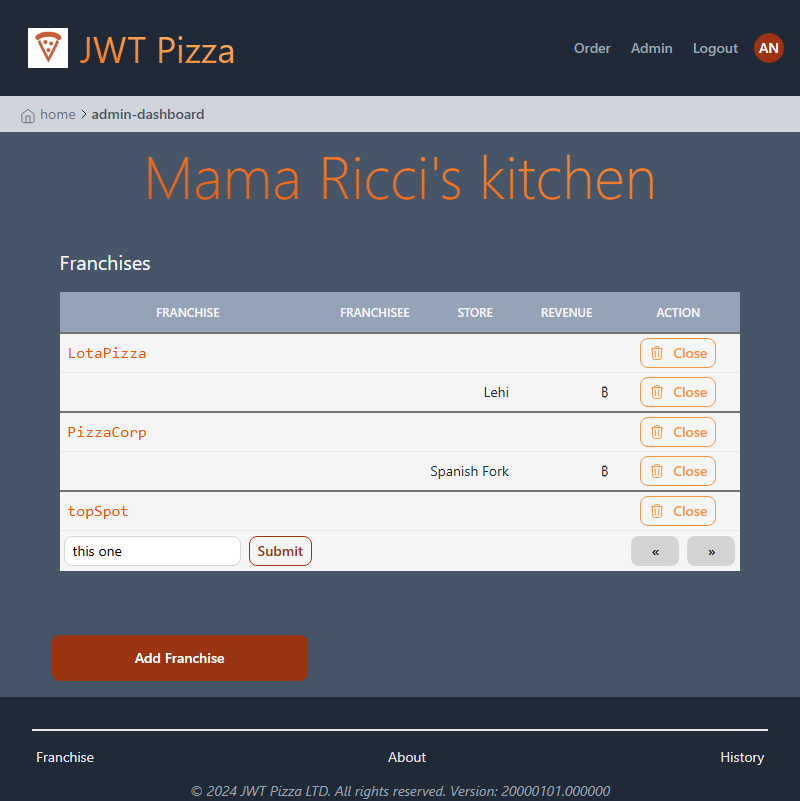
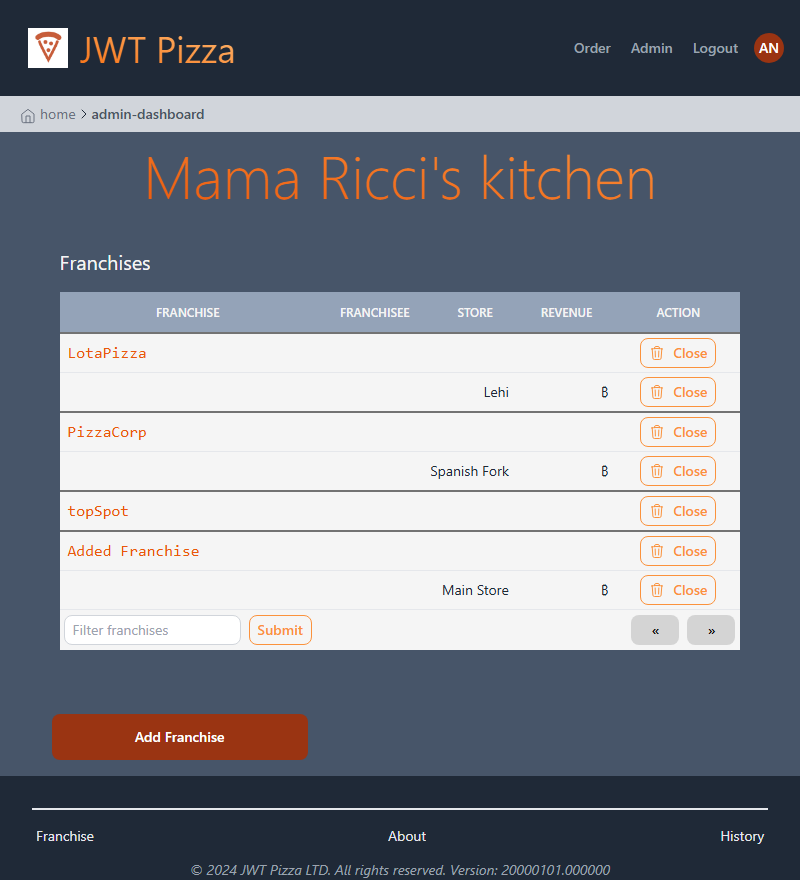
Finally got that admin test passing. Taking a break for a bit

diff --git a/tests/pizza.spec.ts b/tests/pizza.spec.ts
@@ -138,38 +138,60 @@ async function basicInit(page: Page) {
     await route.fulfill({ json: menuRes });
   });
 
-  // Standard franchises and stores
+  const mockFranchises = [
+  { id: 2, name: 'LotaPizza', stores: [{ id: 4, name: 'Lehi' }] },
+  { id: 3, name: 'PizzaCorp', stores: [{ id: 7, name: 'Spanish Fork' }] },
+  { id: 4, name: 'topSpot', stores: [] },
+];
+
   await page.route(/\/api\/franchise(\?.*)?$/, async (route) => {
-    const franchiseRes = {
-      franchises: [
-        {
-          id: 2,
-          name: 'LotaPizza',
-          stores: [
-            { id: 4, name: 'Lehi' },
-            // { id: 5, name: 'Springville' },
-            // { id: 6, name: 'American Fork' },
-          ],
-        },
-        { id: 3, name: 'PizzaCorp', stores: [{ id: 7, name: 'Spanish Fork' }] },
-        { id: 4, name: 'topSpot', stores: [] },
-      ],
-    };
     expect(route.request().method()).toBe('GET');
-    await route.fulfill({ json: franchiseRes });
+    await route.fulfill({ json: { franchises: mockFranchises } });
   });
 
-  // let createdFranchise: any;
   await page.route('*/**/api/franchise', async (route) => {
-    const createdFranchise = route.request().postDataJSON();
     const newFranchise = {
-      id: 5,
-      name: createdFranchise.name,
-      stores: [{ id: 8, name: createdFranchise.storeName }],
+      id: mockFranchises.length + 2, // simple incremental ID
+      name: 'Added Franchise',
+      stores: [{ id: 8, name: 'Main Store' }],
     };
+    mockFranchises.push(newFranchise); // add to the in-memory list
     expect(route.request().method()).toBe('POST');
     await route.fulfill({ json: newFranchise });
   });
+
+  // Standard franchises and stores
+  // await page.route(/\/api\/franchise(\?.*)?$/, async (route) => {
+  //   const franchiseRes = {
+  //     franchises: [
+  //       {
+  //         id: 2,
+  //         name: 'LotaPizza',
+  //         stores: [
+  //           { id: 4, name: 'Lehi' },
+  //           // { id: 5, name: 'Springville' },
+  //           // { id: 6, name: 'American Fork' },
+  //         ],
+  //       },
+  //       { id: 3, name: 'PizzaCorp', stores: [{ id: 7, name: 'Spanish Fork' }] },
+  //       { id: 4, name: 'topSpot', stores: [] },
+  //     ],
+  //   };
+  //   expect(route.request().method()).toBe('GET');
+  //   await route.fulfill({ json: franchiseRes });
+  // });
+
+  // // let createdFranchise: any;
+  // await page.route('*/**/api/franchise', async (route) => {
+  //   const createdFranchise = route.request().postDataJSON();
+  //   const newFranchise = {
+  //     id: 5,
+  //     name: createdFranchise.name,
+  //     stores: [{ id: 8, name: createdFranchise.storeName }],
+  //   };
+  //   expect(route.request().method()).toBe('POST');
+  //   await route.fulfill({ json: newFranchise });
+  // });
 
   // Order a pizza.
   await page.route('*/**/api/order', async (route) => {
@@ -285,44 +307,22 @@ test('admin can login', async ({ page }) => {
 
 test('admin can login and create franchise', async ({ page }) => {
   await basicInit(page);
-  // await page.getByRole('link', { name: 'Login' }).click();
-  // await page.getByRole('textbox', { name: 'Email address' }).fill('a@jwt.com');
-  // await page.getByRole('textbox', { name: 'Password' }).fill('admin');
-  // await page.getByRole('button', { name: 'Login' }).click();
+  await page.getByRole('link', { name: 'Login' }).click();
+  await page.getByRole('textbox', { name: 'Email address' }).fill('a@jwt.com');
+  await page.getByRole('textbox', { name: 'Password' }).fill('admin');
+  await page.getByRole('button', { name: 'Login' }).click();
 
-  // await page.getByRole('link', { name: 'Admin' }).click();
-  // await page.getByRole('button', { name: 'Add Franchise' }).click();
-  // await page.getByRole('textbox', { name: 'franchise name' }).fill('New Franchise');
-  // await page.getByRole('textbox', { name: 'franchisee admin email' }).fill('a@jwt.com');
-  // await page.getByRole('button', { name: 'Create' }).click();
+  await page.getByRole('link', { name: 'Admin' }).click();
+  await page.getByRole('button', { name: 'Add Franchise' }).click();
+  await page.getByRole('textbox', { name: 'franchise name' }).fill('Some name, does not matter');
+  await page.getByRole('textbox', { name: 'franchisee admin email' }).fill('a@jwt.com');
+  await page.getByRole('button', { name: 'Create' }).click();
   // await page.getByRole('textbox', { name: 'Filter franchises' }).fill('New Franchise');
   // await page.getByRole('button', { name: 'Submit' }).click();
 
-  // await page.screenshot({ path: 'admin-create-franchise.png', fullPage: true });
-
-  // await expect(page.getByText('New Franchise')).toBeVisible();
-
-
-  await page.goto('http://localhost:5173/');
-  await page.getByRole('link', { name: 'Login' }).click();
-  await page.getByRole('textbox', { name: 'Email address' }).fill('a@jwt.com');
-  await page.getByRole('textbox', { name: 'Email address' }).press('Tab');
-  await page.getByRole('textbox', { name: 'Password' }).fill('admin');
-  await page.getByRole('button', { name: 'Login' }).click();
-  await page.getByRole('link', { name: 'Admin' }).click();
-  await page.getByRole('button', { name: 'Add Franchise' }).click();
-  await page.getByRole('textbox', { name: 'franchise name' }).click();
-  await page.getByRole('textbox', { name: 'franchise name' }).fill('this one');
-  await page.getByRole('textbox', { name: 'franchisee admin email' }).click();
-  await page.getByRole('textbox', { name: 'franchisee admin email' }).fill('a@jwt.com');
-  await page.getByRole('button', { name: 'Create' }).click();
-  await page.getByRole('textbox', { name: 'Filter franchises' }).click();
-  await page.getByRole('textbox', { name: 'Filter franchises' }).fill('this one');
-  await page.getByRole('button', { name: 'Submit' }).click();
-
   await page.screenshot({ path: 'admin-create-franchise.png', fullPage: true });
 
-  await expect(page.getByText('this one')).toBeVisible();
+  await expect(page.getByText('Added Franchise')).toBeVisible();
   
 
 });
